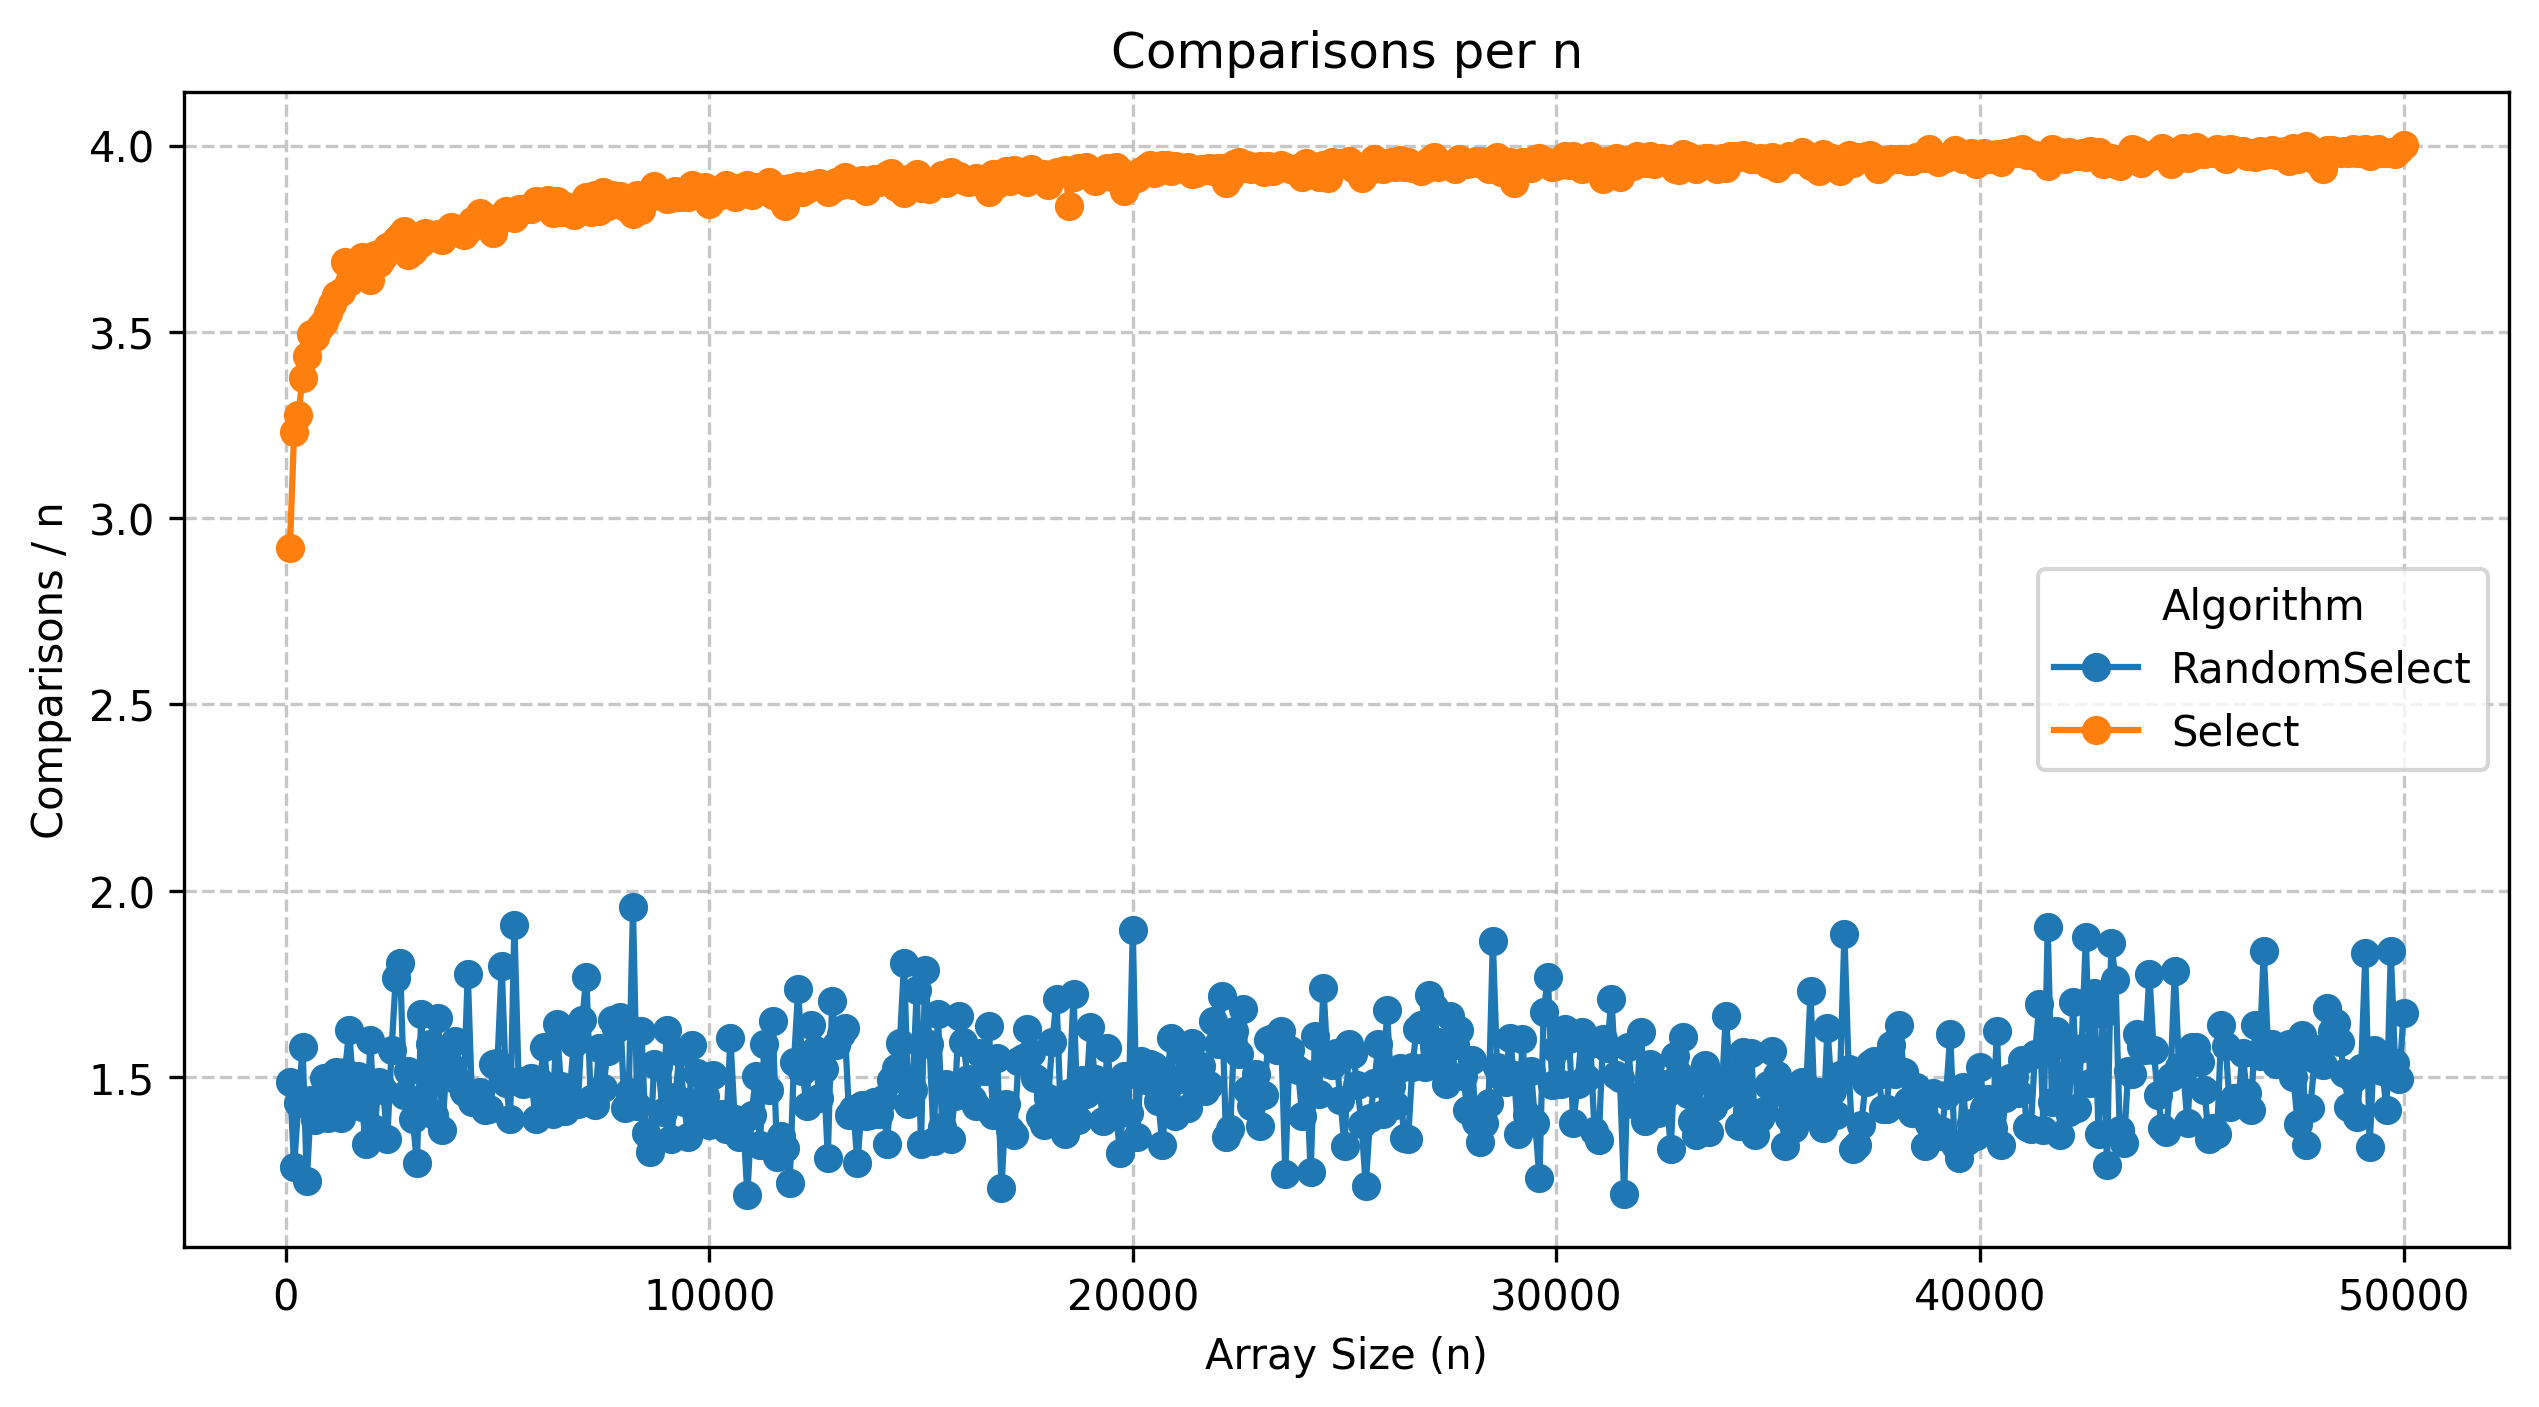
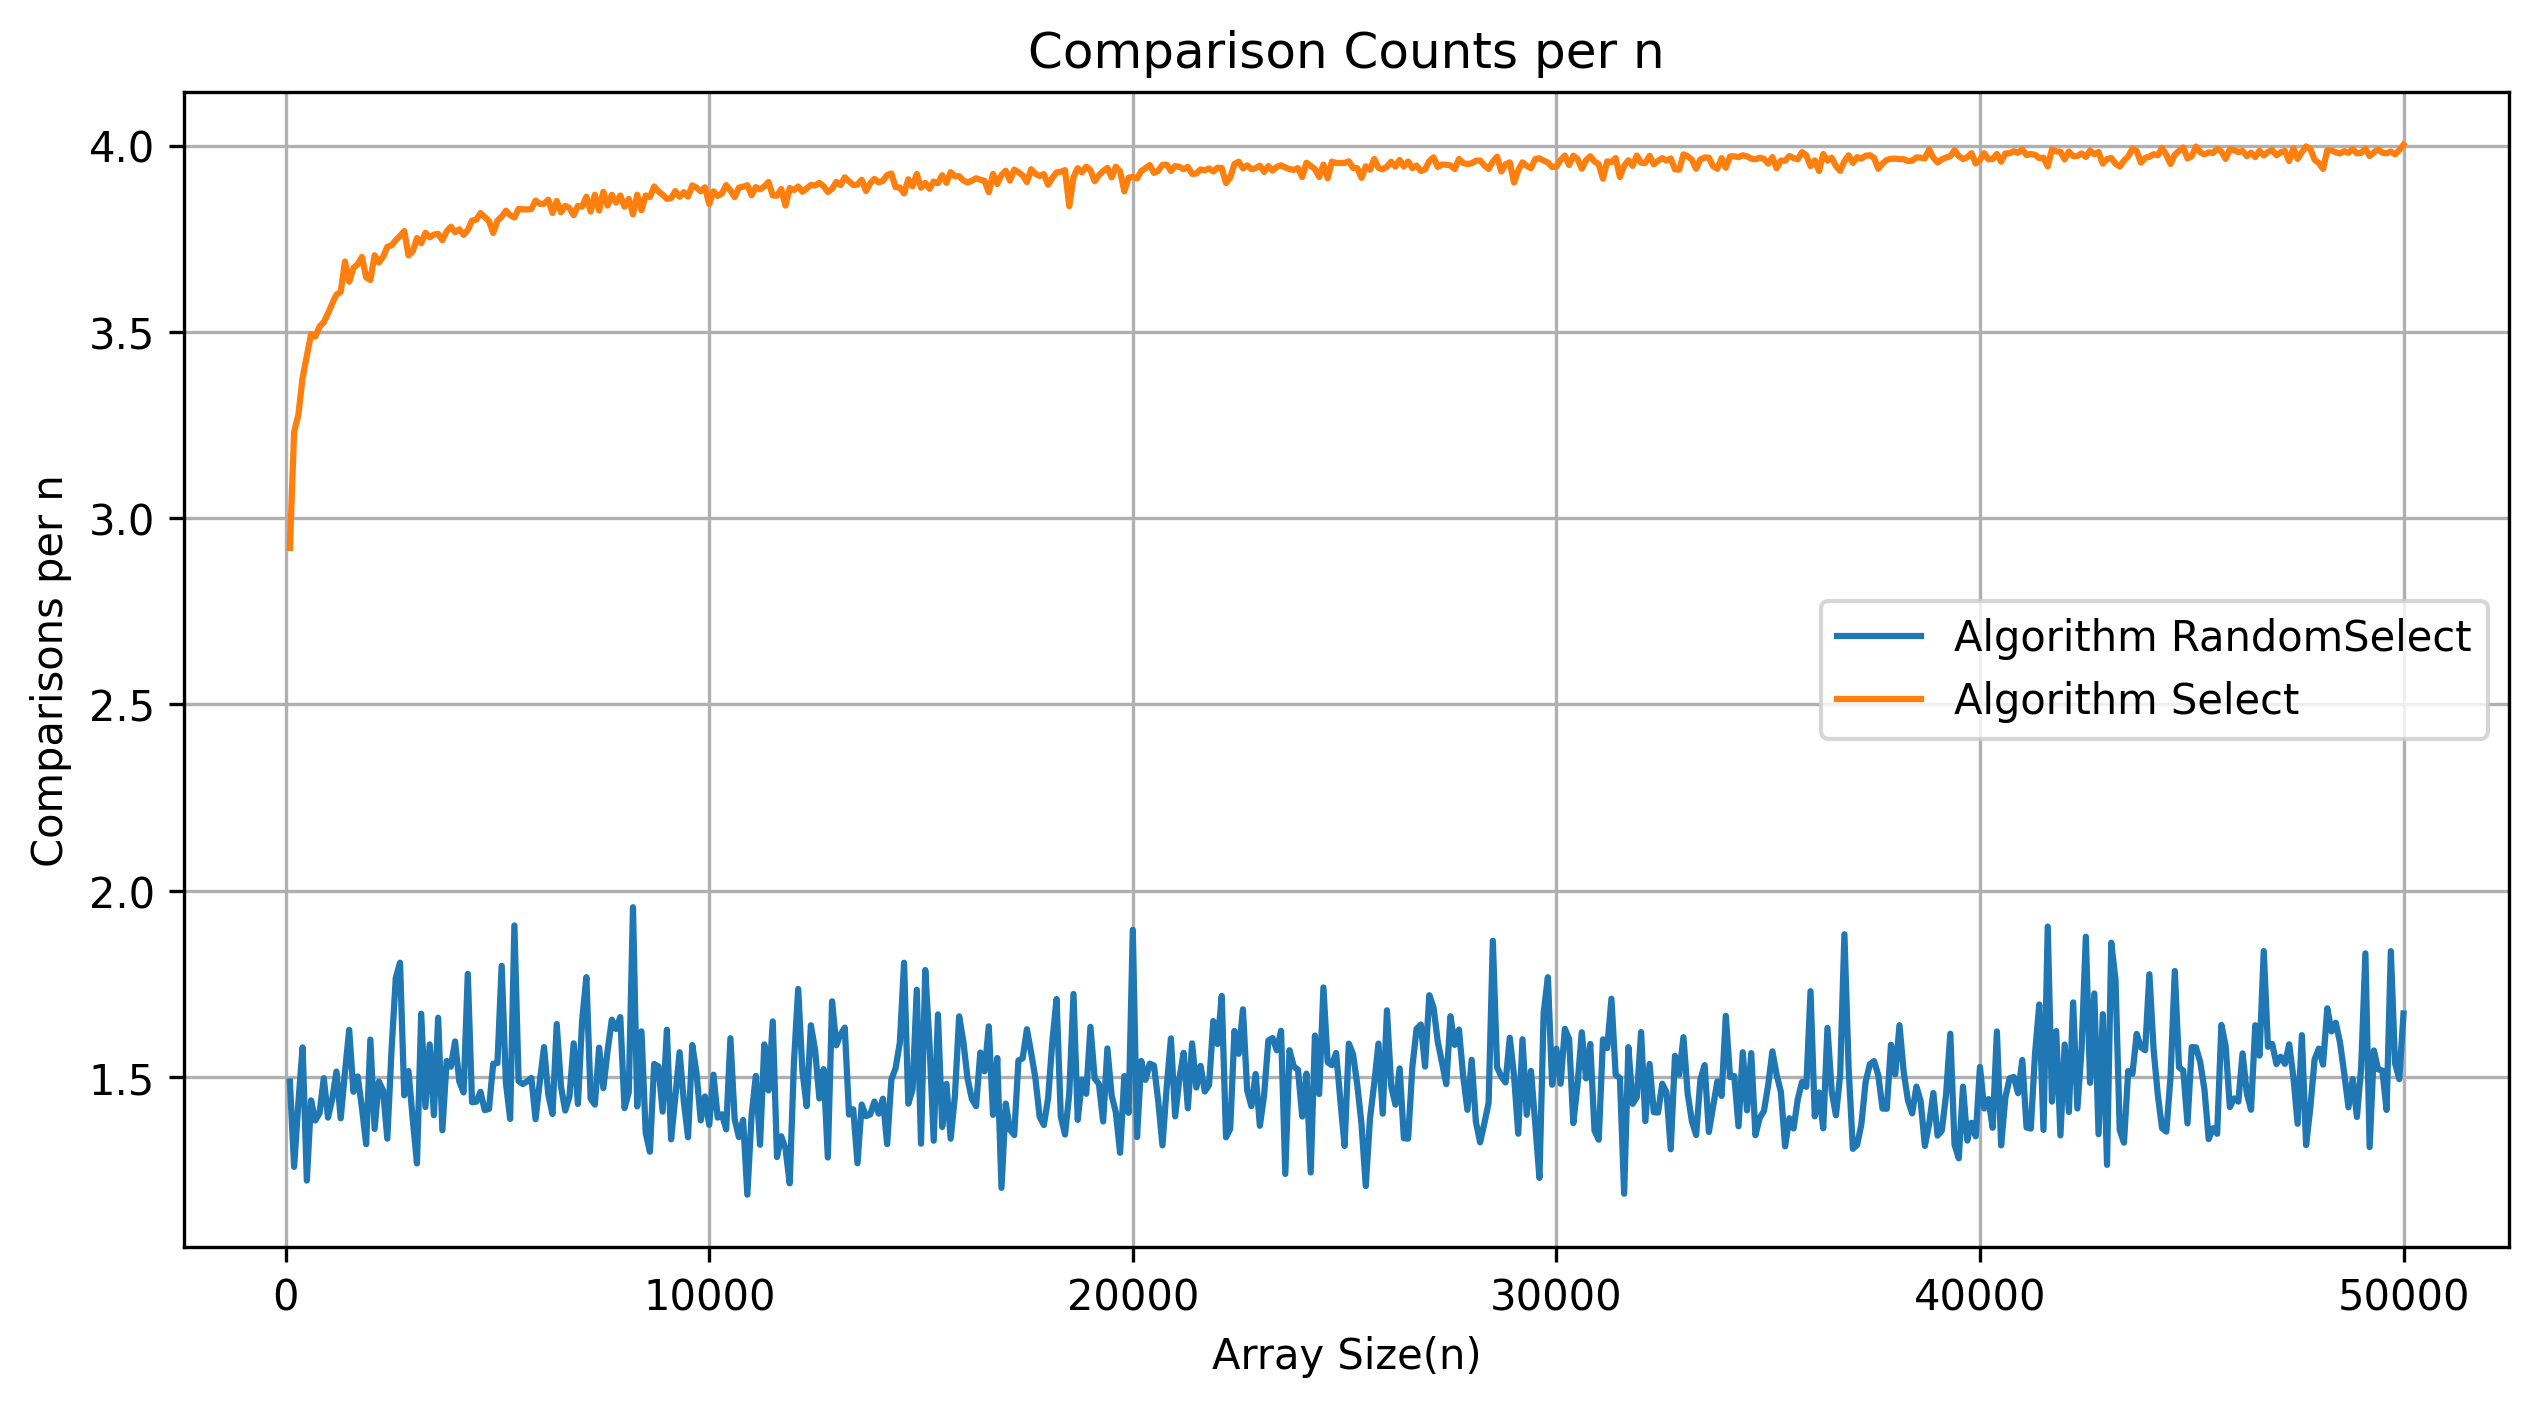
Done Z1,Z2,Z3 from L3 Algo

diff --git a/mw1/L3/WykresyZ3.py b/mw1/L3/WykresyZ3.py
@@ -3,11 +3,11 @@ import numpy as np
 import matplotlib.pyplot as plt
 
 # Load and clean data
-df = pd.read_csv("results.csv")
+df = pd.read_csv("./plots/Z2/results/results.csv")
 
 # Convert to numeric (handle errors)
 numeric_cols = ['Array Size', 'Comparisons', 'Swaps', 'Time (microsec)', 'Group Size']
-df[numeric_cols] = df[numeric_cols].apply(pd.to_numeric, errors='coerce')
+#df[numeric_cols] = df[numeric_cols].apply(pd.to_numeric, errors='coerce')
 
 df["Array Size"] = df["Array Size"].astype(int)
 df["Comparisons"] = df["Comparisons"].astype(int)
@@ -15,28 +15,45 @@ df["Swaps"] = df["Swaps"].astype(int)
 df["Time"] = df["Time (microsec)"].astype(int)
 
 # Drop rows with missing numeric values if needed
-df = df.dropna(subset=numeric_cols)
+#df = df.dropna(subset=numeric_cols)
 
 # Compute averages
-df_avg = df.groupby(["Group Size", "Array Size"], as_index=False).mean(numeric_only=True)
+df_avg = df.groupby(["Algorithm", "Array Size"], as_index=False).mean(numeric_only=True)
 
 def plot_metric2(metric, title, ylabel, filename):
     plt.figure(figsize=(10, 5))
     
     # Plot data for each group size
-    for size in sorted(df_avg["Group Size"].unique()):
-        subset = df_avg[df_avg["Group Size"] == size]
+    # for size in sorted(df_avg["Group Size"].unique()):
+    #     subset = df_avg[df_avg["Group Size"] == size]
+    #     plt.plot(subset["Array Size"], subset[metric], linestyle='-',
+    #             marker=None, label=f"Group Size {size}")
+
+    for size in sorted(df_avg["Algorithm"].unique()):
+        subset = df_avg[df_avg["Algorithm"] == size]
         plt.plot(subset["Array Size"], subset[metric], linestyle='-',
-                marker=None, label=f"Group Size {size}")
+                marker=None, label=f"Algorithm {size}")
 
     x_values = np.array(sorted(df_avg["Array Size"].unique()))
     
     # Add reference lines
-    # if metric in ['Comparisons', 'Swaps']:
-    #     plt.plot(x_values, 0.6*x_values*np.log2(x_values), 
-    #             '--', label='0.6nlog(n)')
-        # plt.plot(x_values, x_values*np.log2(x_values), 
-        #         ':', label='nlog(n)')
+    if metric in ['Comparisons']:
+        # plt.plot(x_values, 0.25*x_values*np.log2(x_values), 
+        #         '--', label='0.25nlog(n)')
+        plt.plot(x_values, 4*x_values, 
+                ':', label='4n')
+        plt.plot(x_values, 1.5*x_values, 
+                ':', label='1,5n')
+    
+    if metric in ['Swaps']:
+        # plt.plot(x_values, 0.7*x_values*np.log2(x_values), 
+        #         '--', label='0.7nlog(n)')
+        # plt.plot(x_values, 8*x_values, 
+        #         ':', label='8n')
+        plt.plot(x_values, 6*x_values, 
+                ':', label='6n')
+        plt.plot(x_values, 1.5*x_values, 
+                ':', label='1,5n')
     
     plt.title(title)
     plt.xlabel("Array Size(n)")
@@ -47,9 +64,9 @@ def plot_metric2(metric, title, ylabel, filename):
     plt.close()
 
 # Generate plots
-#plot_metric2("Comparisons", "Comparison Counts", "Comparisons", "comparisons.png")
-#plot_metric2("Swaps", "Swap Counts", "Swaps", "Swaps.png")
-#plot_metric2("Time (microsec)", "Execution Time", "Time (μs)", "time.png")
+plot_metric2("Comparisons", "Comparison Counts", "Comparisons", "comparisons.png")
+plot_metric2("Swaps", "Swap Counts", "Swaps", "Swaps.png")
+plot_metric2("Time (microsec)", "Execution Time", "Time (μs)", "time.png")
 df_avg["Comparisons per n"] = df_avg["Comparisons"] / df_avg["Array Size"]
 df_avg["Swaps per n"] = df_avg["Swaps"] / df_avg["Array Size"]
 df_avg["Time per n"] = df_avg["Time"] / df_avg["Array Size"]

diff --git a/mw1/L3/Select.cpp b/mw1/L3/Select.cpp
@@ -116,7 +116,7 @@ int main(){
     string line;
     int* A = NULL;
     int k;
-    int size=3;
+    int size=9;
     try{
         getline(cin,line);
         n = stoi(line);
